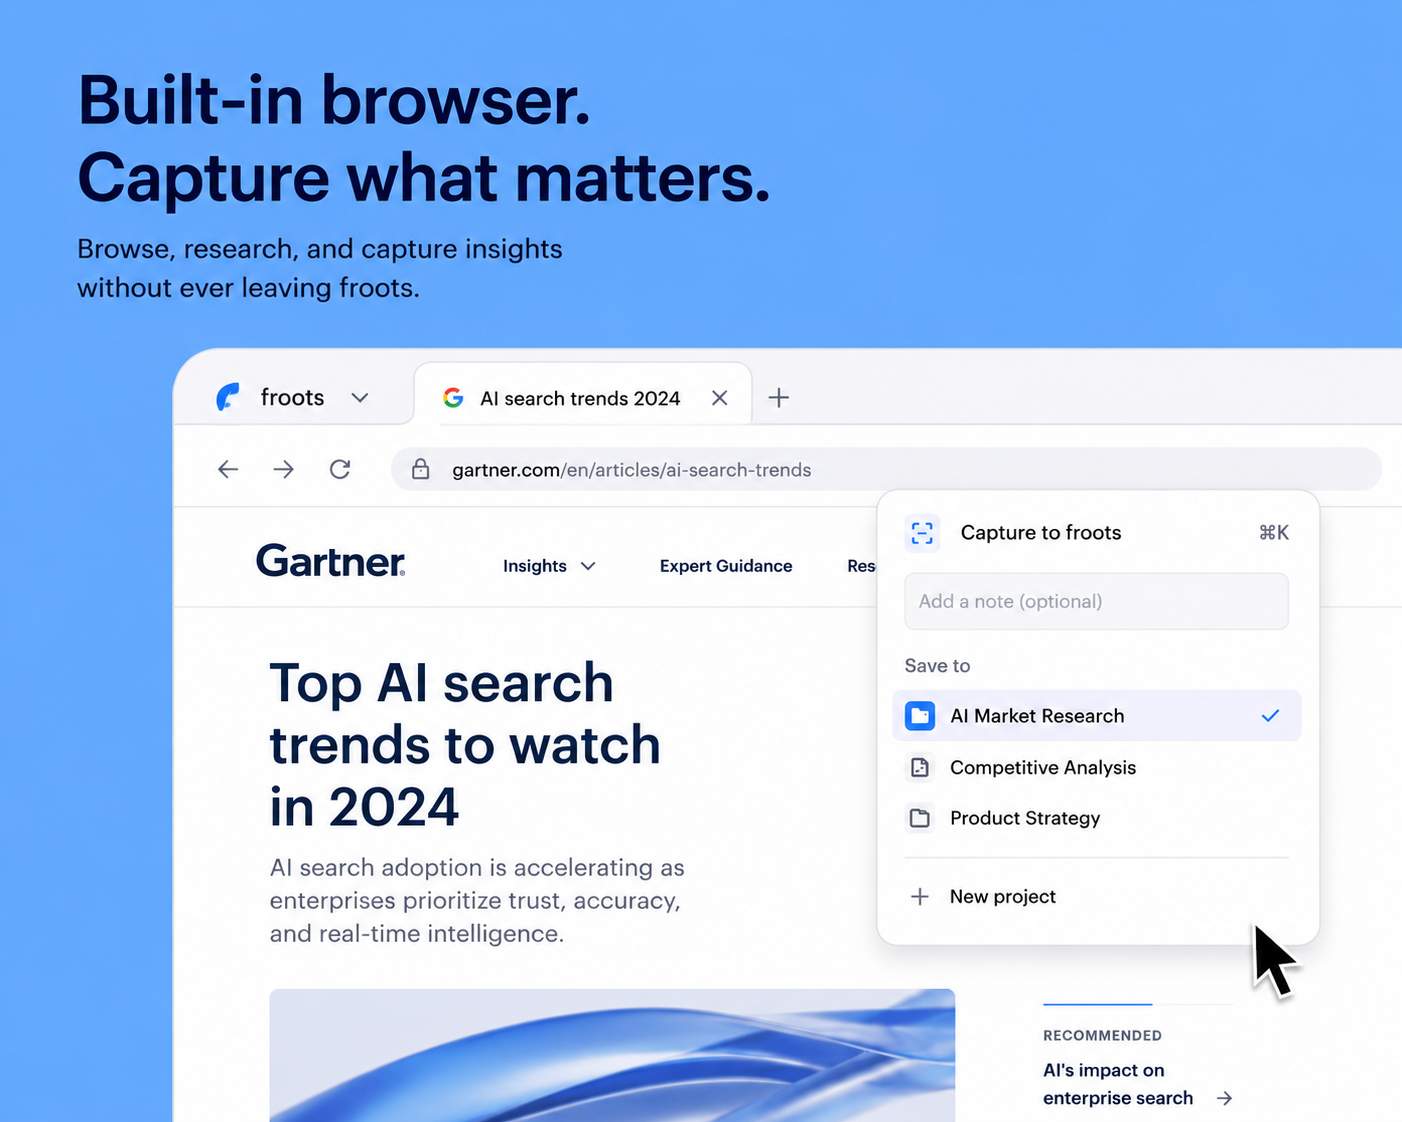
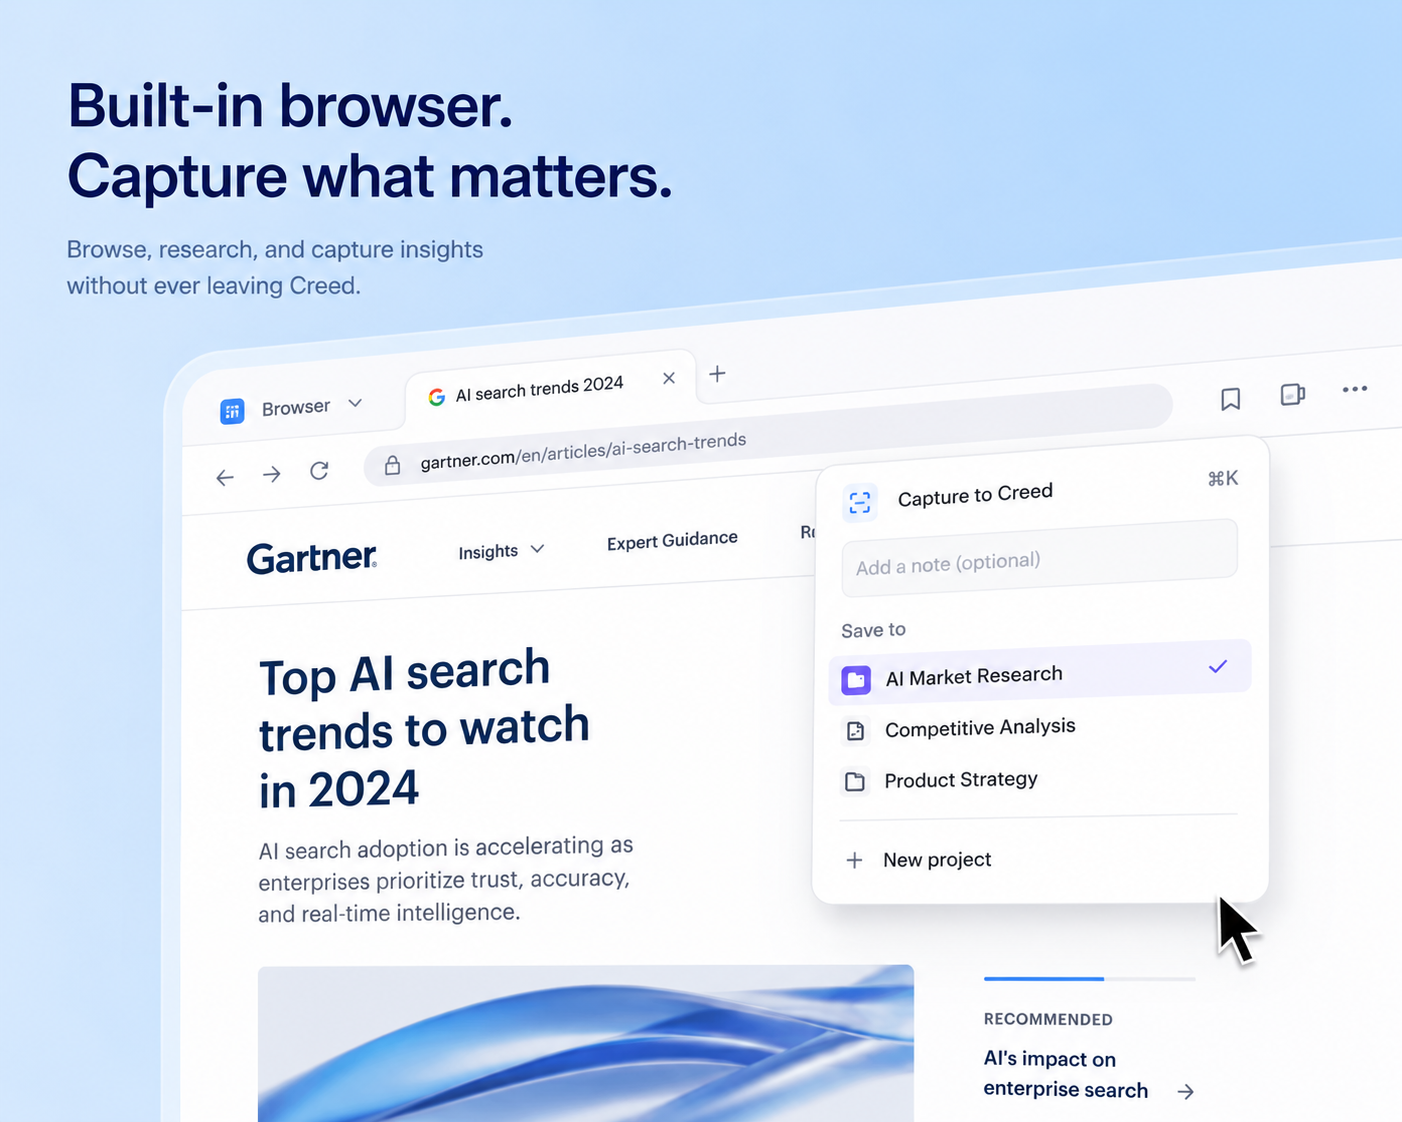
landing: use green/blue/pink feature mockups in the 3 feature sections (not fruit photos)

diff --git a/app/page.tsx b/app/page.tsx
@@ -273,7 +273,7 @@ export default function Home() {
       <FeatureSplit
         title="Custom views for your internal ops"
         description="Spin up dashboards, widgets, and panels tailored to how your team actually works. Pin them to your desktop, share them with your agents, and stop tab-hopping between five different tools."
-        imageSrc="/froot-cantalope.jpg"
+        imageSrc="/froots-feature-widgets.png"
         imageAlt="Froots custom widgets"
         primaryCta="Build a view"
       />
@@ -281,14 +281,14 @@ export default function Home() {
         reverse
         title="A browser, built in"
         description="Research, prospect, and pull data without ever leaving Froots. The built-in browser lives next to your agents, so what they see is what you see — and either of you can take the wheel."
-        imageSrc="/froot-grapefruit.jpg"
+        imageSrc="/froots-feature-browser.png"
         imageAlt="Froots built-in browser"
         primaryCta="Try the browser"
       />
       <FeatureSplit
         title="Multi-panel for multi-agent workflows"
         description="Run several agents side by side — one drafting, one researching, one shipping. Each gets its own panel, its own context, its own tools, while you orchestrate from a single canvas."
-        imageSrc="/froot-pomegranete.jpg"
+        imageSrc="/froots-feature-multipanel.png"
         imageAlt="Froots multi-agent panels"
         primaryCta="See the layout"
       />